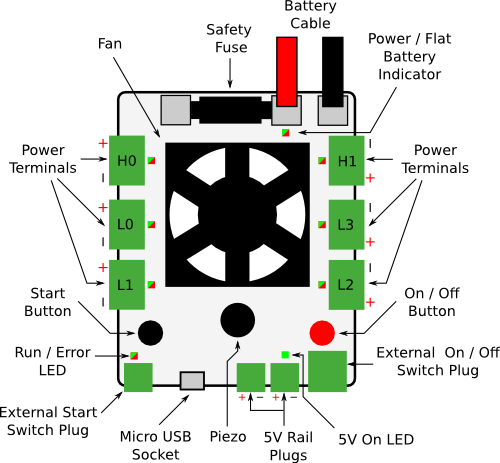
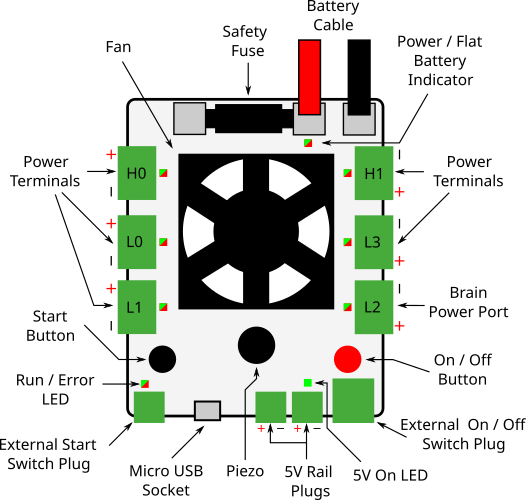
Update the power board docs for 12V powered brain boards

diff --git a/docs/kit/power-board.md b/docs/kit/power-board.md
@@ -4,8 +4,8 @@ sidebar_position: 2.4
 ---
 
 The Power Board distributes power from the battery to the rest of the kit. It provides
-six individual general-purpose 12V power outputs along with a separate power connector
-for the Raspberry Pi and servos.
+five individual general-purpose 12V power outputs and two 5V power output.
+Additionally a separate power connector for the Raspberry Pi is provided (L2).
 
 It also holds the internal On|Off switch for the whole robot as well as
 the Start button which is used to start your robot code.
@@ -16,7 +16,7 @@ the Start button which is used to start your robot code.
 
 ## Connectors
 
-There are six power output connectors on the board, labelled L0–L3, H0, and H1.
+There are five generic power output connectors on the board, labelled L0, L1, L3, H0, and H1.
 These can supply around 11.1V (±15%). The "H" connectors will supply more
 current than the "L" connectors.
 
@@ -24,7 +24,10 @@ They should be used to connect to the motor board power input, though can also
 be used to power other devices. These are enabled when your robot code is
 started and can also be turned on or off from your code.
 
-There are two 5V connectors that can be used to connect low-current devices that take 5V inputs, such as the Raspberry Pi.
+The L2 connector is a 12V output that should be used to power the Raspberry Pi.
+This is enabled automatically when the power board is turned on.
+
+There are two 5V connectors that can be used to connect low-current devices that take 5V inputs.
 
 There is also a Micro USB B connector which should be connected to the Raspberry Pi for control of the power board.
 
